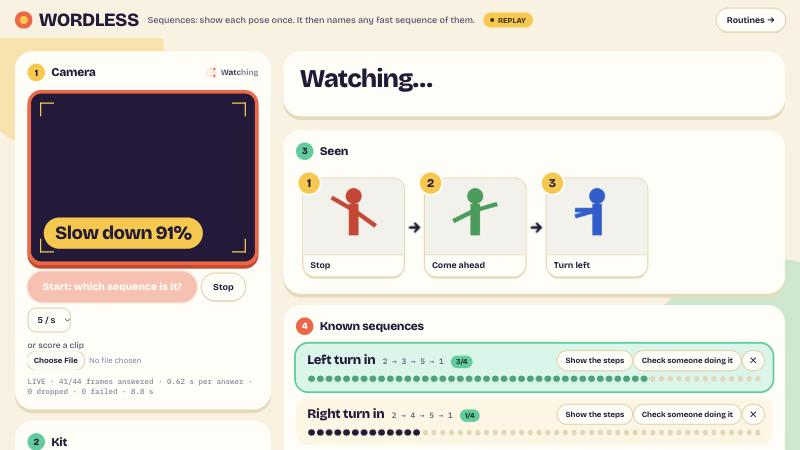
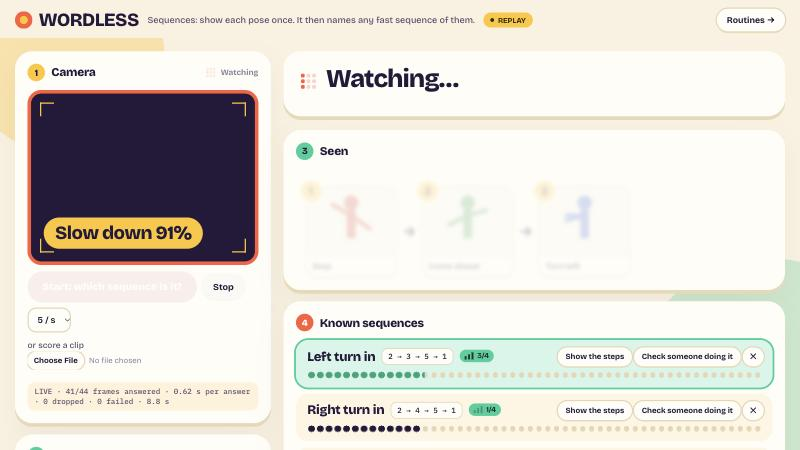
Playground: task-row status capsules, tool chips, confidence bars, pixel loader in the verdict

diff --git a/web/styles/playground.css b/web/styles/playground.css
@@ -116,3 +116,31 @@ main:has(#go:disabled) .verdict:not(.exact, .near, .errors, .unknown, .nothing) 
 table { font-size:14px; } th { font:700 12.5px var(--sans); color:var(--ink-2); } th, td { border-bottom:2px solid var(--line); }
 .strip .sign { flex-basis:clamp(92px, calc((100% - 196px) / 6), 170px); }
 .strip:not(:has(> div:nth-of-type(5))) .sign { flex-basis:clamp(92px, calc((100% - 128px) / 4), 190px); }
+
+/* ------------------------------------------------------------ more from beautifului.dev, in Playground colours */
+/* Task Rows: a status capsule at the end of every build stage */
+.stages li { grid-template-columns:22px 84px 1fr auto; align-items:center; }
+.stages li::after { font:700 12px/1 var(--sans); padding:6px 10px; border-radius:999px; white-space:nowrap; }
+.stages li.done::after { content:"Completed"; background:var(--green-tint); color:var(--green-ink); }
+.stages li.running::after { content:"Running"; background:var(--sun); color:#3a2c00; }
+.stages li.failed::after { content:"Failed"; background:var(--tomato); color:#fff; }
+.stages li.skipped::after { content:"Skipped"; background:var(--field); color:var(--ink-3); }
+/* Tool Chips: the step order of a sequence as a compact mono chip */
+.seq .chips { font:500 12px var(--mono); color:var(--ink); background:var(--surface); padding:4px 9px; border-radius:8px; box-shadow:0 0 0 1.5px var(--line-strong); vertical-align:2px; }
+/* Recommendation Card: confidence-meter bars in front of the progress chip of each candidate */
+.seq .note { display:inline-flex; align-items:center; gap:6px; vertical-align:2px; }
+.seq .note::before { content:""; width:14px; height:11px; background:linear-gradient(currentColor, currentColor) 0 100% / 3px 5px, linear-gradient(currentColor, currentColor) 5.5px 100% / 3px 8px, linear-gradient(currentColor, currentColor) 11px 100% / 3px 11px; background-repeat:no-repeat; opacity:.35; }
+.seq.lead .note::before { opacity:1; }
+/* Loading State: pixel-grid loader inside the verdict while watching or deciding, and the readout as a mono capsule */
+main:has(#go:disabled) .verdict:not(.exact, .near, .errors, .unknown, .nothing)::before {
+  content:""; display:inline-block; width:6px; height:6px; border-radius:2px; margin:0 34px 14px 2px; vertical-align:middle;
+  animation:pix-sweep .9s steps(1) infinite;
+}
+@keyframes pix-sweep {
+  0%   { background:var(--tomato); box-shadow:0 9px var(--tomato), 0 18px var(--tomato), 9px 0 #ffd3c9, 9px 9px #ffd3c9, 9px 18px #ffd3c9, 18px 0 #ffd3c9, 18px 9px #ffd3c9, 18px 18px #ffd3c9; }
+  33%  { background:#ffd3c9; box-shadow:0 9px #ffd3c9, 0 18px #ffd3c9, 9px 0 var(--tomato), 9px 9px var(--tomato), 9px 18px var(--tomato), 18px 0 #ffd3c9, 18px 9px #ffd3c9, 18px 18px #ffd3c9; }
+  66%  { background:#ffd3c9; box-shadow:0 9px #ffd3c9, 0 18px #ffd3c9, 9px 0 #ffd3c9, 9px 9px #ffd3c9, 9px 18px #ffd3c9, 18px 0 var(--tomato), 18px 9px var(--tomato), 18px 18px var(--tomato); }
+}
+.stat { display:inline-block; background:var(--field); padding:6px 11px; border-radius:12px; color:var(--ink-2); }
+/* Context Cards: source-style footer chip under each pose name is the hairline + soft shadow pairing */
+.box { box-shadow:0 6px 0 var(--ledge), 0 18px 47px 0 #0000000a; }
